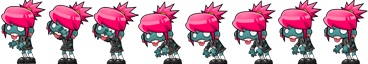
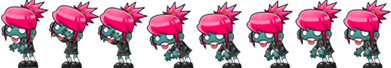
p3 arrays didn't work as intended, had to learn phaser groups and implement those and reimplement player death and zombie death

diff --git a/projects/project3/js/script.js b/projects/project3/js/script.js
@@ -36,22 +36,32 @@ let config = {
 // create the game
 let game = new Phaser.Game(config);
 
+let restartBool = false;
+// let zombieAttacking = 0;
 let zombDeath = false;
-let deathCounter = 0;
+let zombMDeath = false;
+// let deathCounter = 0;
 let zombies;
+let zombiesM;
+// let j = 0;
+// let k =0;
 let fireCounter = 0;
 let player;
-let interaction = false;
-let x = 0;
+let incVal = -1;
+// let interaction = false;
+// let x = 0;
+// let zombieOn = false;
+let fire;
 //function preload()
 //
 //preloads all the spritesheets
 function preload() {
+  this.load.spritesheet('sorloDie','assets/images/Sorlodie.png',{frameWidth: 80, frameHeight: 80});
   this.load.spritesheet('zom2Death','assets/images/zom2death.png',{frameWidth: 60, frameHeight: 68});
   this.load.spritesheet('zombie2Attack','assets/images/zom2Attack.png',{frameWidth: 46, frameHeight: 64});
   this.load.spritesheet('zombie2Walk','assets/images/zomb2Walk.png',{frameWidth:43, frameHeight:68});
   this.load.spritesheet('zomDeath','assets/images/zomdeath.png',{frameWidth: 60, frameHeight: 68});
-  this.load.spritesheet('zombieAttack','assets/images/zomAttack.png',{frameWidth: 46, frameHeight: 64});
+  this.load.spritesheet('zombieAttack','assets/images/zombAttack.png',{frameWidth: 49, frameHeight: 68});
   this.load.spritesheet('zombieWalk','assets/images/zombWalk.png',{frameWidth:43, frameHeight:68});
   this.load.spritesheet('sorloJump','assets/images/sorloJump.png',{frameWidth: 70, frameHeight: 70});
   this.load.spritesheet('tiles','assets/images/tiles.png', {frameWidth : 400, frameHeight: 34});
@@ -65,6 +75,24 @@ function preload() {
 //
 //creates and handles the animations and movements
 function create () {
+  zombies = this.physics.add.group({
+    defaultKey: 'zombie',
+    createCallback: function (zombie){
+      zombie.setName('zombie'+this.getLength());
+    }
+  });
+  zombiesM = this.physics.add.group({
+    defaultKey: 'zombieM',
+    createCallback: function (zombieM){
+      zombieM.setName('zombieM'+this.getLength());
+    }
+  });
+  let playerDie = this.anims.create({
+    key: 'die',
+    frames: this.anims.generateFrameNumbers('sorloDie'),
+    frameRate: 8,
+    repeat:0
+  })
   //create an animation for the ground, loads the sprite image sets the framerate and the repeat time
   let groundImage = this.anims.create({
     key: 'ground',
@@ -164,7 +192,18 @@ function create () {
   //create a physics sprite for the player walking
   player = this.physics.add.sprite(125,225,'sorloWalk').setSize(43,70);
 
+ 
+  this.time.addEvent({
+    delay: 2500,
+    loop: true,
+    callback: addZombie
+  });
 
+  this.time.addEvent({
+    delay: 3250,
+    loop: true,
+    callback: addZombieM
+  });
 
   //give the player a bounce against the platform
   player.setBounce(0.2);
@@ -174,7 +213,9 @@ function create () {
     //if fire counter is 0 
     if(fireCounter === 0){
       //create a physics object for the fire sprite
-      let fire = this.physics.add.sprite(event.x,event.y,'blaze').setSize(16,33).setOffset(0,0);
+       fire = this.physics.add.sprite(event.x,event.y,'blaze')
+       fire.body.setCircle(5);
+       fire.setOffset(5,20)
       //increase the counter by 1 so that the player can't create fire again
       fireCounter++;
       //play the fire's animation
@@ -190,36 +231,26 @@ function create () {
       //once the player finishes the cast animation play the player walk animation
       player.anims.chain('walk');
 
-
+      this.physics.add.overlap(fire,zombies,function(){ zombDeath = true; fireCounter=0; fire.destroy();  },null,this);
+      this.physics.add.overlap(fire,zombiesM,function(){ zombMDeath = true; fireCounter=0; fire.destroy();   },null,this);
       //create an overlap between fire and platform when they collide delete the fire and reduce the fire counter so that the player can cast another fire
-      this.physics.add.overlap(fire, platform, function(fire, platform){  fire.disableBody(true, true); 
-        fireCounter--;}, null, this);
+      this.physics.add.overlap(fire, platform, function(fire, platform){  fire.destroy(); 
+        fireCounter=0;}, null, this);
         //once the fire animation ends kill the fire and reset the counter
       fire.on('animationcomplete', function(animation,frame){
-        fire.disableBody(true,true);
-        fireCounter--;
+        fire.destroy();
+        fireCounter=0;
         });
     }
+
   });
 
-  let zombies = [];
-  let zombies2 = [];
-  let j = 0;
-  let k =0;
-  setInterval(() => {
-    zombies.push(this.physics.add.sprite(350,225,'zombieWalk').setSize(30,60).setOffset(0,10));
-    zombies[j].play('zombWalk');
-    zombies[j].setVelocityX(-120);
-    j++
-  }, 3000);
-  // setInterval(() => {
-  //   zombies2.push(this.physics.add.sprite(350,225,'zombie2Walk').setSize(30,60).setOffset(0,10))
-  //   zombies2[k].play('zomb2Walk');
-  //   zombies2[k].setVelocityX(-140);
-  //   k++
-  // }, 5000);
-  this.physics.add.collider(zombies, platform);
-  // this.physics.add.collider(zombies2, platform);
+
+
+    this.physics.add.overlap(zombies, player, playerDed, null,this);
+
+    this.physics.add.collider(zombies,platform);
+    this.physics.add.collider(zombiesM,platform);
   //create a jumpkey assign it to space so when it's played
   let jumpKey = this.input.keyboard.addKey('SPACE');
   jumpKey.on('down',function(event){
@@ -238,9 +269,125 @@ function create () {
   //if none of the buttons are pressed simply play the player walk animation
   player.play('walk');
 
-
 }
 
-function update(zombies){
-  // console.log(zombies)
+function update() {
+  // console.log(zombDeath)
+
+  zombies.children.iterate(function(zombie){
+    if(zombDeath === true){
+
+      if(zombie.x <200){
+      zombie.setOffset(-150,25);
+      }if(zombie.x >200){
+        zombie.setOffset(150,25);
+        }
+        zombie.play('zombieDie');
+      zombie.on('animationcomplete', function(animation,frame){
+      zombies.killAndHide(zombie)
+      zombies.remove(zombie);
+        });
+      zombDeath = false;
+    }
+  });
+  Phaser.Actions.IncX(zombies.getChildren(), -1)
+  zombies.children.iterate(function(zombie){
+    if(zombie.x === 175 && zombDeath === false){
+      zombie.play('zombAttack')
+      zombie.anims.chain('zombWalk')
+    }
+});
+zombiesM.children.iterate(function(zombieM){
+  if(zombMDeath === true){
+
+    if(zombieM.x <200){
+      zombieM.setOffset(-150,25);
+      }if(zombieM.x >200){
+        zombieM.setOffset(150,25);
+        }
+        zombieM.play('zombie2Die');
+    zombieM.on('animationcomplete', function(animation,frame){
+      zombiesM.killAndHide(zombieM);
+      zombiesM.remove(zombieM);
+      });
+    zombMDeath = false;
+  }
+});
+Phaser.Actions.IncX(zombiesM.getChildren(), -1)
+zombiesM.children.iterate(function(zombieM){
+  if(zombMDeath=== false && zombieM.x === 200){
+    zombieM.play('zomb2Attack')
+    zombieM.anims.chain('zomb2Walk')
+  }
+});
+if(restartBool === true){
+  restartBool = false;
+  this.scene.restart(this);
 }
+}
+
+
+function addZombie(){
+  let zombie = zombies.get(350,225)
+  zombie.play('zombWalk');
+  zombie.setActive(true);
+  zombie.body.setCircle(25)
+  zombie.setOffset(0,20);
+}
+
+function addZombieM(){
+  let zombieM = zombiesM.get(350,225)
+  zombieM.play('zomb2Walk');
+  zombieM.setActive(true);
+  zombieM.body.setCircle(25)
+  zombieM.setOffset(0,20);
+}
+
+function playerDed(){
+  player.play('die');
+  player.setSize(43,68);
+  player.setOffset(10,10);
+  setTimeout(function(){
+    restartBool= true;
+  },1200)
+}
+
+// // console.log(j)
+//   if(zombieOn===true){
+//     // console.log(j)
+//     // console.log(zombies)
+//     // console.log(zombies.x)
+//     if(zombies.x === 100){
+//       console.log('reading')
+//       // zombAttack(zombies[j]);
+//     }
+//   }
+// }
+
+// function zombieDed(zombies){
+//   zombies.play('zombieDie');
+//   zombies.setVelocityX(-20);
+//   setTimeout(() => {
+//     zombies.disableBody(true,true);
+//   },1500)
+// }
+
+// function zombie2Ded(zombies2){
+//   zombies2.play('zombie2Die');
+//   zombies2.setVelocityX(-20);
+//   setTimeout(() => {
+//     zombies2.disableBody(true,true);
+//   },1500)
+// }
+
+// let zombieAttackStop = 0;
+// function zombAttack(zombies,j){
+//   if(zombieAttacking===zombieAttackStop){
+//   zombies.play('zombAttack');
+//   zombies.on('animationcomplete',function(animation,frame){
+//     zombieAttackStop = zombieAttacking;
+//     });
+//     zombieAttacking++;
+//   zombies.anims.chain('zombWalk');
+// }
+// }

diff --git a/projects/project3/js/script.1.js b/projects/project3/js/script.1.js
@@ -32,6 +32,7 @@ let config = {
     update: update
   }
 };
+
 //variables
 // create the game
 let game = new Phaser.Game(config);
